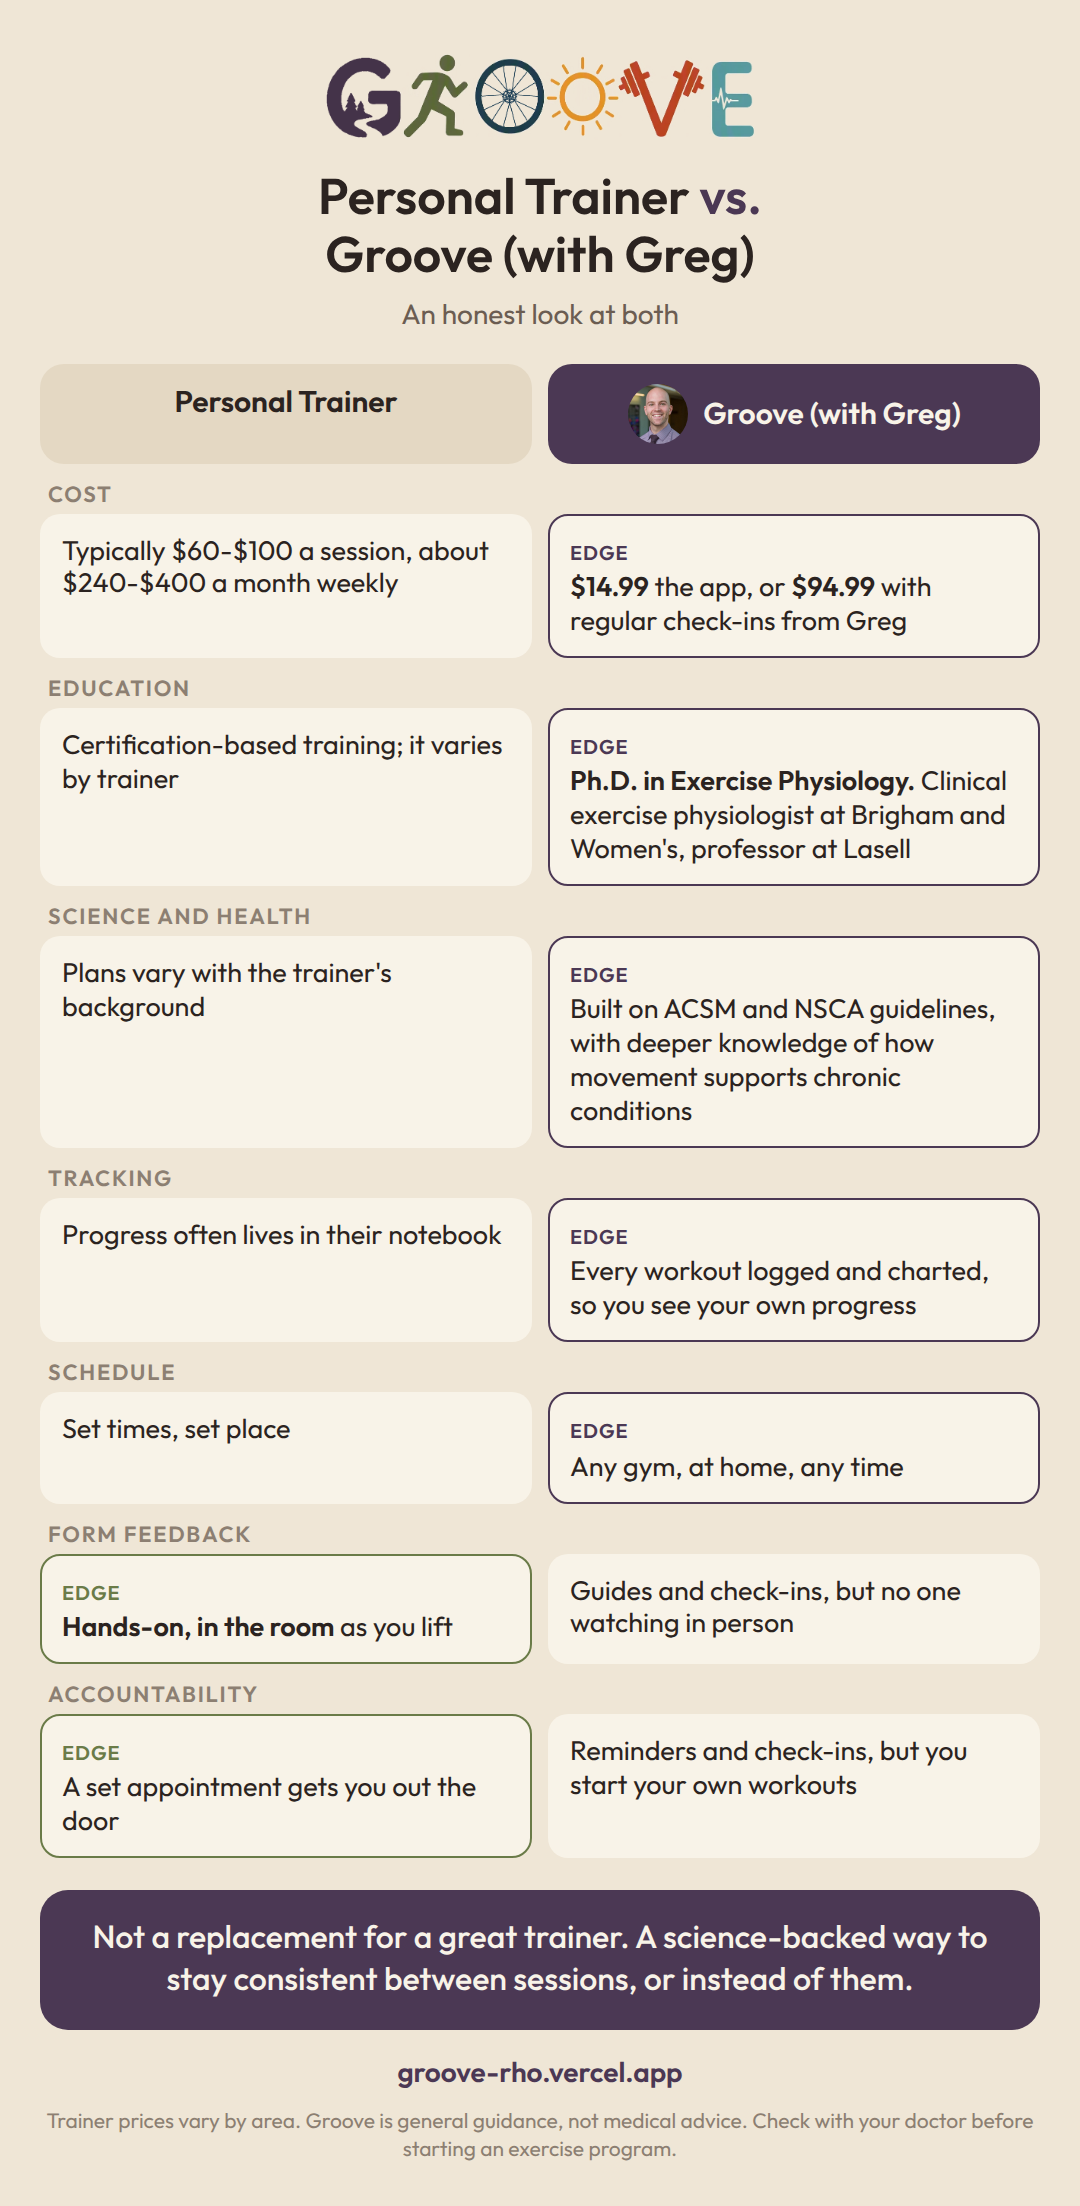
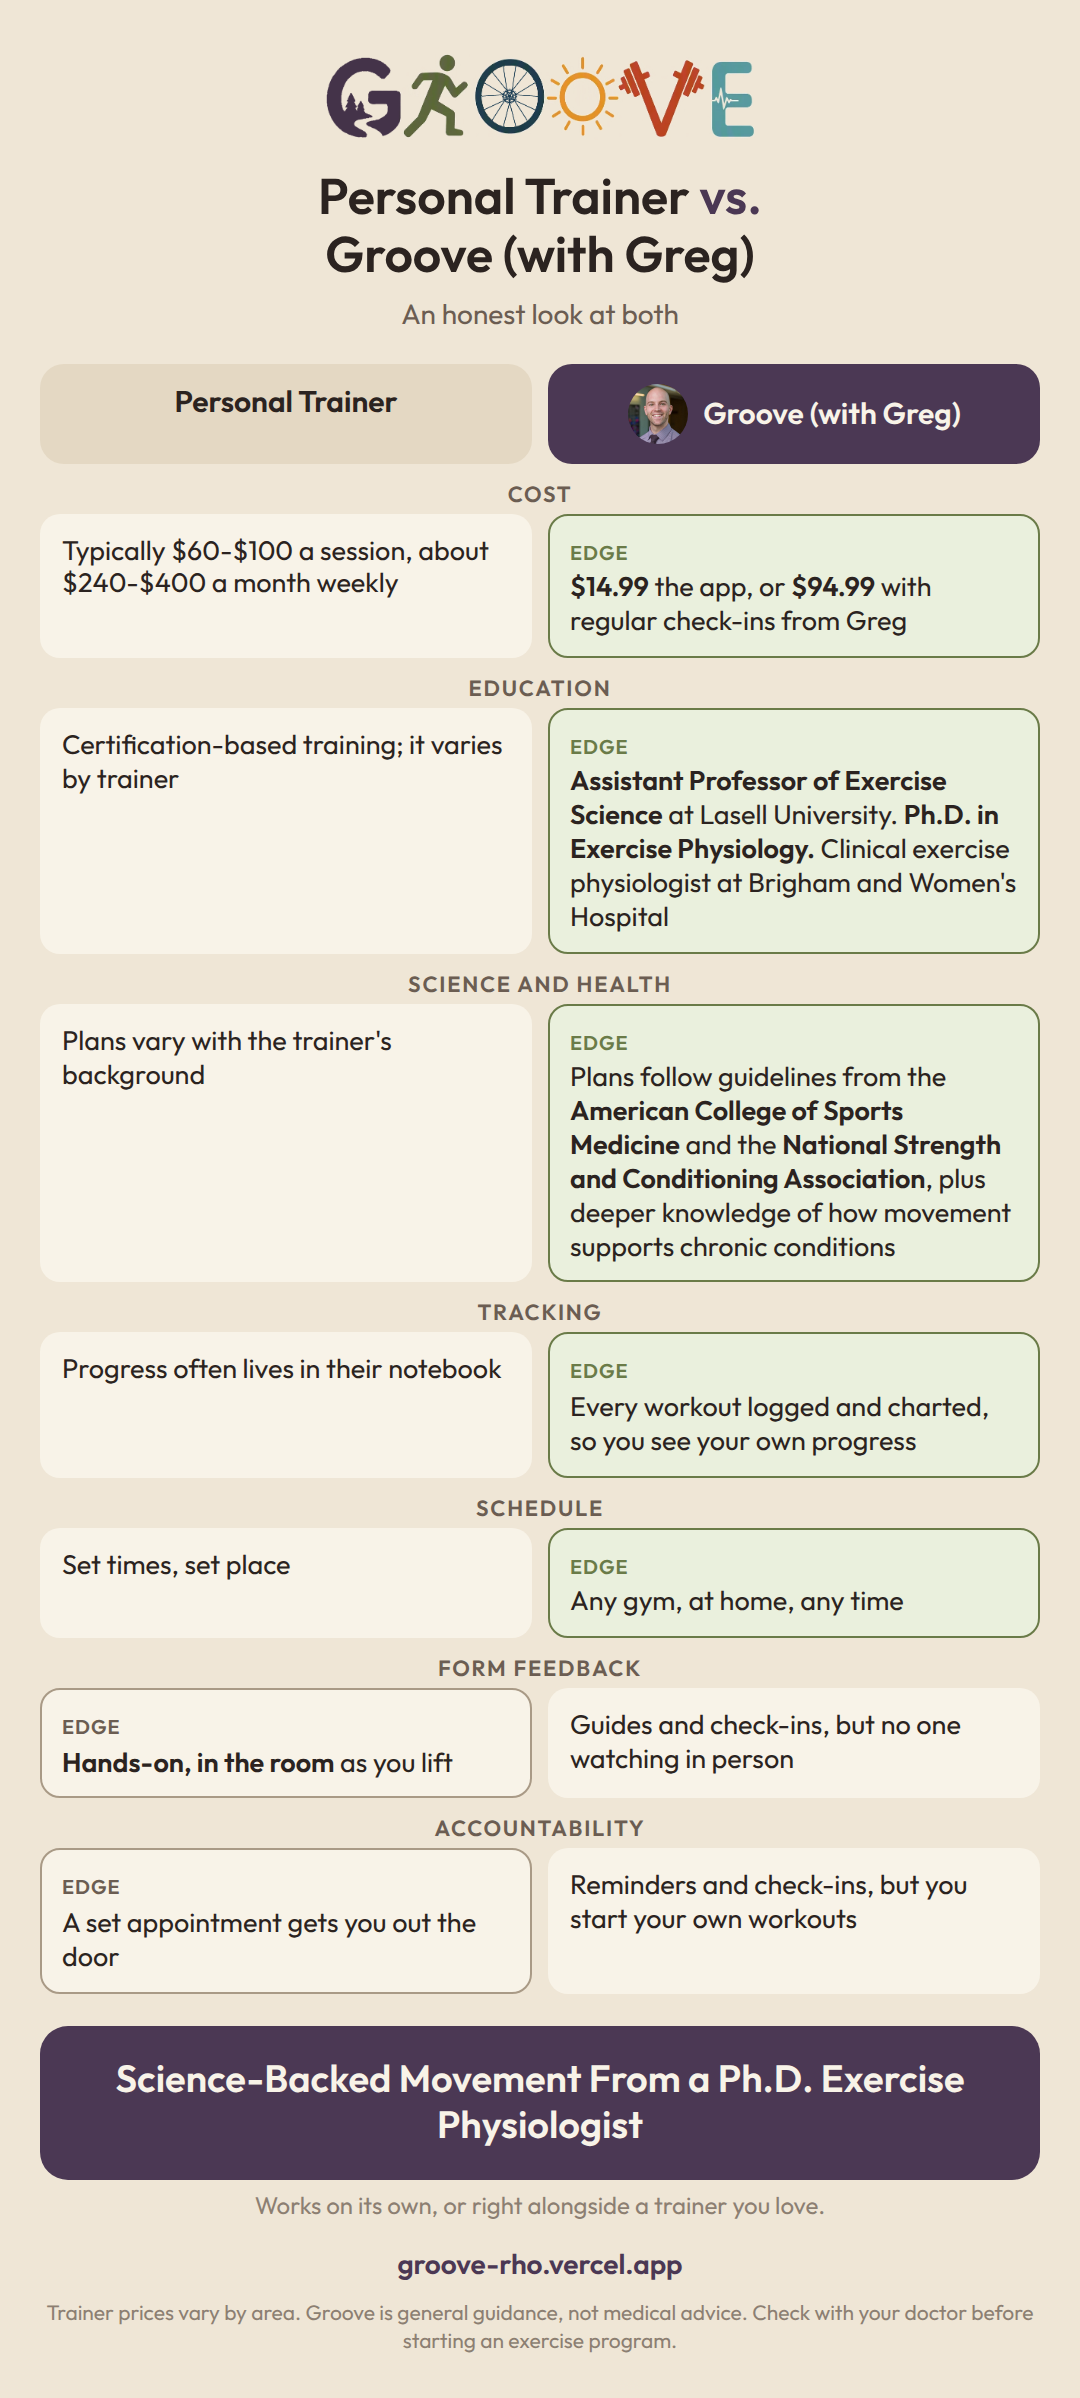
Comparison graphic: green edges, centered labels, spelled-out ACSM/NSCA, stronger closer
Claude-Session: https://claude.ai/code/session_01W6PERwBvGY6kxnwqFJiESo

diff --git a/docs/marketing/compare.html b/docs/marketing/compare.html
@@ -13,15 +13,16 @@ h1 span{color:var(--plum)}
 .h2{background:var(--plum);color:#F8F3E8;display:flex;align-items:center;justify-content:center;gap:8px}
 .h2 img{width:30px;height:30px;border-radius:50%;object-fit:cover}
 .row{margin-top:8px}
-.lab{font-size:11px;letter-spacing:.08em;text-transform:uppercase;color:var(--soft);font-weight:600;margin:0 4px 3px}
+.lab{font-size:11px;letter-spacing:.08em;text-transform:uppercase;color:var(--dim);font-weight:600;margin:0 4px 3px;text-align:center}
 .cells{display:grid;grid-template-columns:1fr 1fr;gap:8px}
 .cell{background:var(--card);border-radius:10px;padding:9px 10px;font-size:13.5px;line-height:1.25;min-height:46px;border:1.5px solid transparent;position:relative}
 .cell b{font-weight:600}
-.win{border-color:var(--sage)}
-.win.g{border-color:var(--plum)}
-.tag{display:inline-block;font-size:10px;font-weight:600;letter-spacing:.05em;text-transform:uppercase;color:var(--sage);margin-bottom:2px}
-.g .tag{color:var(--plum)}
-.close{margin-top:16px;background:var(--plum);color:#F8F3E8;border-radius:14px;padding:14px 16px;text-align:center;font-size:16px;line-height:1.3;font-weight:500}
+.win{border-color:#A99A86}
+.win.g{border-color:var(--sage);background:#EAF0DD}
+.tag{display:inline-block;font-size:10px;font-weight:600;letter-spacing:.05em;text-transform:uppercase;color:var(--dim);margin-bottom:2px}
+.g .tag{color:var(--sage)}
+.close{margin-top:16px;background:var(--plum);color:#F8F3E8;border-radius:14px;padding:15px 16px;text-align:center;font-size:19px;line-height:1.25;font-weight:600}
+.alone{text-align:center;color:var(--soft);font-size:12px;margin-top:6px}
 .cta{text-align:center;margin-top:12px;font-size:14px;font-weight:600;color:var(--plum)}
 .fine{text-align:center;color:var(--soft);font-size:10.5px;margin-top:8px;line-height:1.35}
 </style></head><body>
@@ -36,11 +37,11 @@ h1 span{color:var(--plum)}
 
 <div class="row"><div class="lab">Education</div><div class="cells">
 <div class="cell">Certification-based training; it varies by trainer</div>
-<div class="cell win g"><span class="tag">Edge</span><br><b>Ph.D. in Exercise Physiology.</b> Clinical exercise physiologist at Brigham and Women's, professor at Lasell</div></div></div>
+<div class="cell win g"><span class="tag">Edge</span><br><b>Assistant Professor of Exercise Science</b> at Lasell University. <b>Ph.D. in Exercise Physiology.</b> Clinical exercise physiologist at Brigham and Women's Hospital</div></div></div>
 
 <div class="row"><div class="lab">Science and Health</div><div class="cells">
 <div class="cell">Plans vary with the trainer's background</div>
-<div class="cell win g"><span class="tag">Edge</span><br>Built on ACSM and NSCA guidelines, with deeper knowledge of how movement supports chronic conditions</div></div></div>
+<div class="cell win g"><span class="tag">Edge</span><br>Plans follow guidelines from the <b>American College of Sports Medicine</b> and the <b>National Strength and Conditioning Association</b>, plus deeper knowledge of how movement supports chronic conditions</div></div></div>
 
 <div class="row"><div class="lab">Tracking</div><div class="cells">
 <div class="cell">Progress often lives in their notebook</div>
@@ -58,7 +59,8 @@ h1 span{color:var(--plum)}
 <div class="cell win"><span class="tag">Edge</span><br>A set appointment gets you out the door</div>
 <div class="cell">Reminders and check-ins, but you start your own workouts</div></div></div>
 
-<div class="close">Not a replacement for a great trainer. A science-backed way to stay consistent between sessions, or instead of them.</div>
+<div class="close">Science-Backed Movement From a Ph.D. Exercise Physiologist</div>
+<p class="alone">Works on its own, or right alongside a trainer you love.</p>
 <div class="cta">groove-rho.vercel.app</div>
 <p class="fine">Trainer prices vary by area. Groove is general guidance, not medical advice. Check with your doctor before starting an exercise program.</p>
 </body></html>
